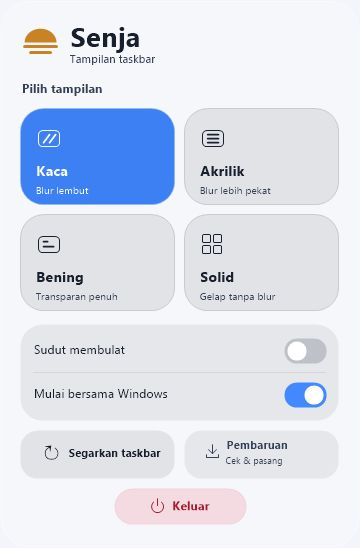
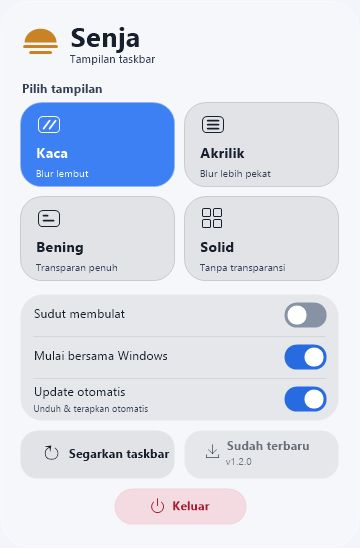
Refresh GUI previews from the official v1.2.0 install

diff --git a/docs/preview/NATIVE_CAPTURES.md b/docs/preview/NATIVE_CAPTURES.md
@@ -1,17 +1,19 @@
 # Native menu captures
 
 `../preview.png` and `../preview-light.png` were captured on Windows on
-2026-10-26 from the native v1.1.5 menu (source commit `a36f672`).
+2026-10-27 from the official GitHub v1.2.0 release (source `24b6d5a`).
 
-The menu ran in `--native-preview` mode, which uses the native drawing code
-with isolated settings. An opaque local test window supplied plain dark
-(`#18212e`) and light (`#f3f5fa`) backgrounds. Only the menu's 360 × 548 window
-was retained; no personal desktop content is included.
+The running engine was installed through a real automatic-update test from a
+local prior-version candidate. Its native `--native-check` window used the
+shipped drawing code and live engine settings/status. Automatic installation
+is enabled in these captures because the test explicitly switched it on;
+existing user settings default to off. No simulated download values are shown.
 
-The capture tool returned JPEG data, which was converted to PNG without
-resizing, retouching, added blur, or other visual changes. The test background
-was separate from the menu. These images show the settings panel, not the
-taskbar material, animation timing, memory use, or behavior on every system.
+A separate opaque local fixture supplied plain dark (`#18212e`) and light
+(`#f3f5fa`) backgrounds. Only the menu's 360 x 548 window was retained, with
+no personal desktop content. The capture API returned JPEG data, converted to
+PNG without resizing, retouching, added blur, or other visual changes.
 
-The HTML gallery in this directory is an older web design reference and is
-not the source of the current README images.
+The images show the settings panel, not taskbar effects, animation timing,
+memory use, or behavior on every system. The HTML gallery in this directory
+is an older web design reference, not the source of these captures.

diff --git a/README.md b/README.md
@@ -13,7 +13,7 @@ Four Windows taskbar styles, controlled from the system tray.
   <img src="docs/preview-light.png" width="300" alt="Menu native Senja pada latar uji terang">
 </p>
 
-*Menu native pada latar uji polos, ditangkap dari aplikasi v1.1.5. Gambar ini memperlihatkan panel pengaturan; efek taskbar tidak ditampilkan.*
+*Menu native pada latar uji polos, ditangkap dari aplikasi v1.2.0. Update otomatis ditampilkan aktif pada uji ini; default pengaturan lama tetap nonaktif. Gambar ini memperlihatkan panel pengaturan; efek taskbar tidak ditampilkan.*
 
 ## Tampilan & fitur
 
@@ -82,7 +82,7 @@ Senja Bar provides four taskbar styles: **Glass**, **Acrylic**, **Clear**, and *
 
 Includes rounded taskbar corners, launch at startup, animated controls, refresh, and in-app updates. Changing styles keeps the panel open. Clicking outside or dismissing the tray closes it. **Keluar** exits Senja and restores the Windows taskbar.
 
-The images above are captures of the native v1.1.5 menu on plain test backgrounds. They show the settings panel, not taskbar effects.
+The images above are captures of the native v1.2.0 menu on plain test backgrounds. Automatic installation was enabled for this test; existing settings default to off. They show the settings panel, not taskbar effects.
 
 ### Install
 
